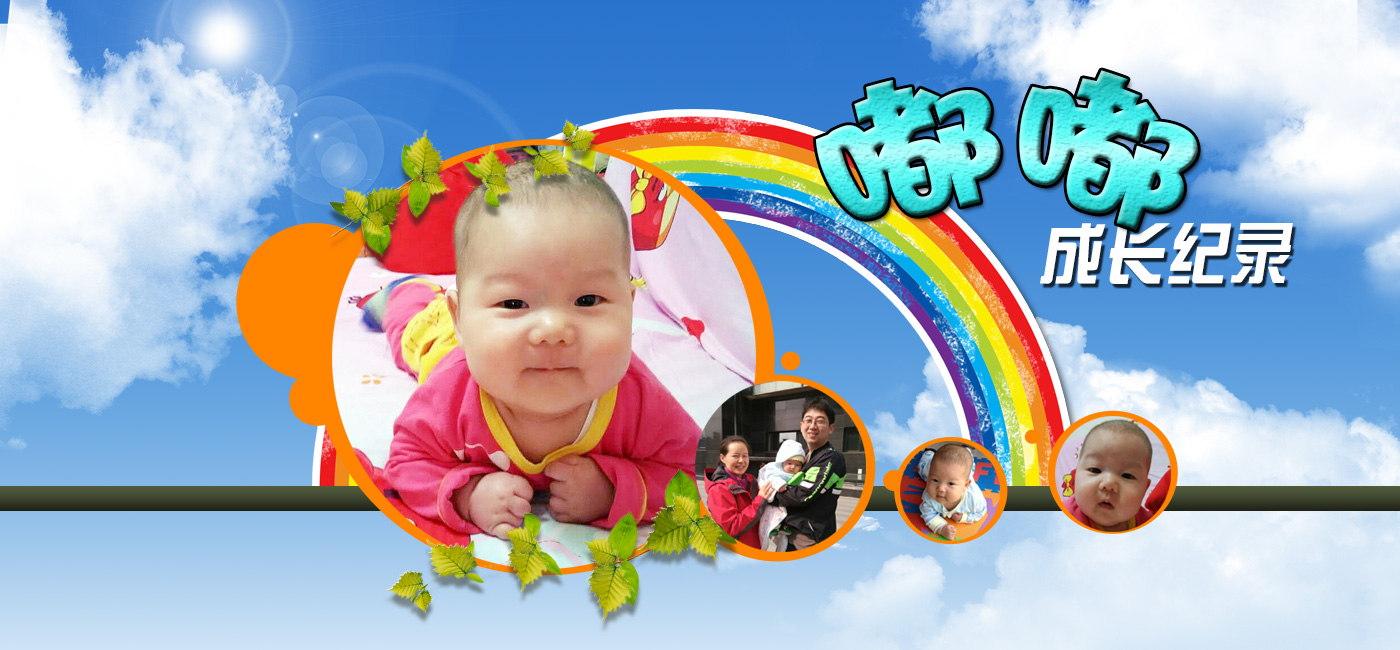
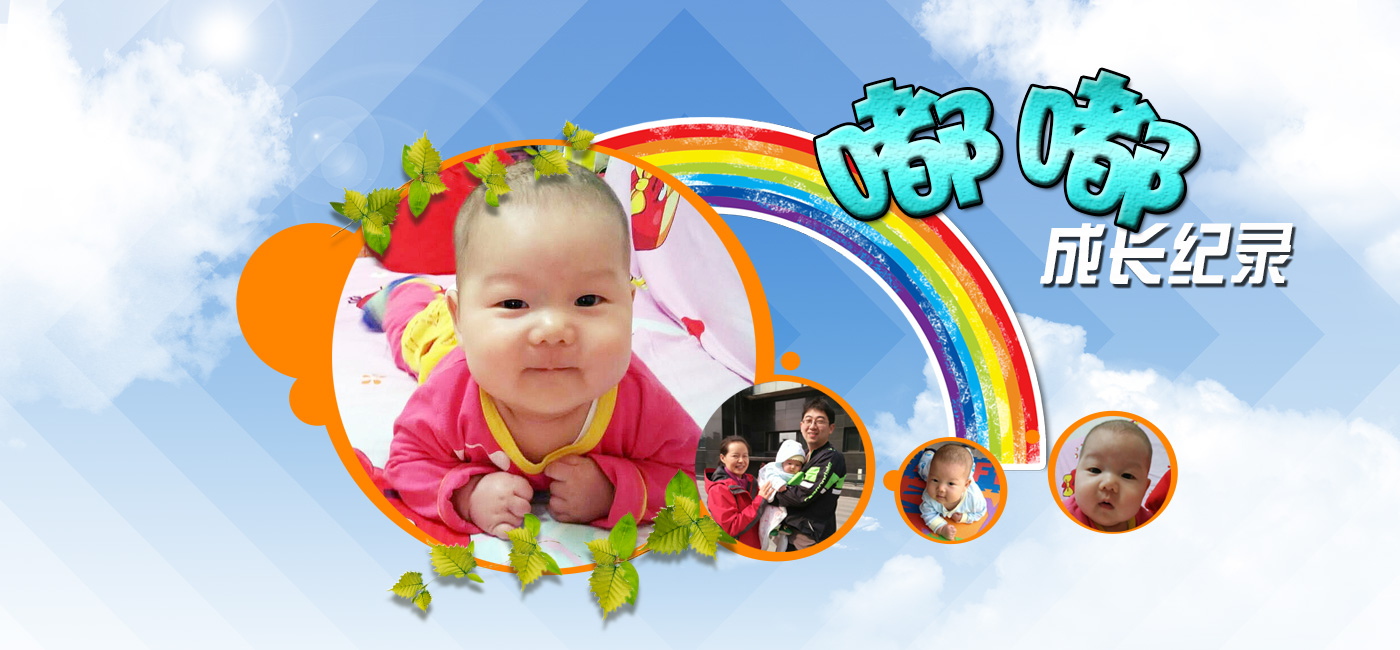
renew
change background and banner

diff --git a/css/main.css b/css/main.css
@@ -1,4 +1,5 @@
-body{background: url(../images/background.jpg) no-repeat;background-position:center top}
+/*body{background: url(../images/background.jpg) no-repeat;background-position:center top}*/
+body{background: url(../images/蓝色背景-009.gif) repeat;}
 <style>
   @charset "utf-8";
   html,body,ul,li,ol,dl,dd,dt,p,h1,h2,h3,h4,h5,h6,form,fieldset,legend,img{margin:0;padding:0;font-weight:normal;}
@@ -33,9 +34,13 @@ body{background: url(../images/background.jpg) no-repeat;background-position:cen
   .banner{
     height: 650px;
   }
+  .stick{
+    margin-top: 680px;
+  }
   .content{
     width: 1000px;
     margin: 0 auto;
+    margin-top: 20px;
   }
   .cont-left{
     width: 699px;

diff --git a/index.html b/index.html
@@ -11,7 +11,7 @@
   <div class="header"></div>
 
   <!-- banner -->
-  <div class="banner"></div>
+  <div class="banner"><img=src"images/bang.png"></div>
 
   <!-- main content -->
   <div class="content">
